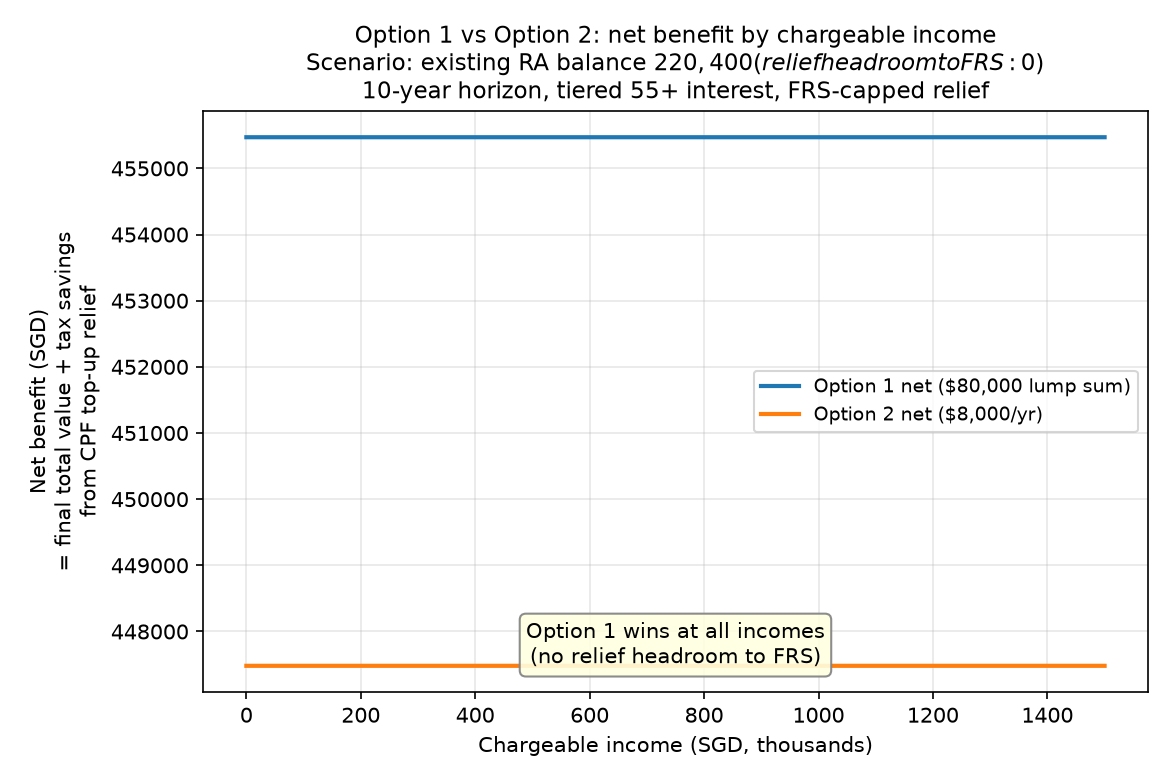
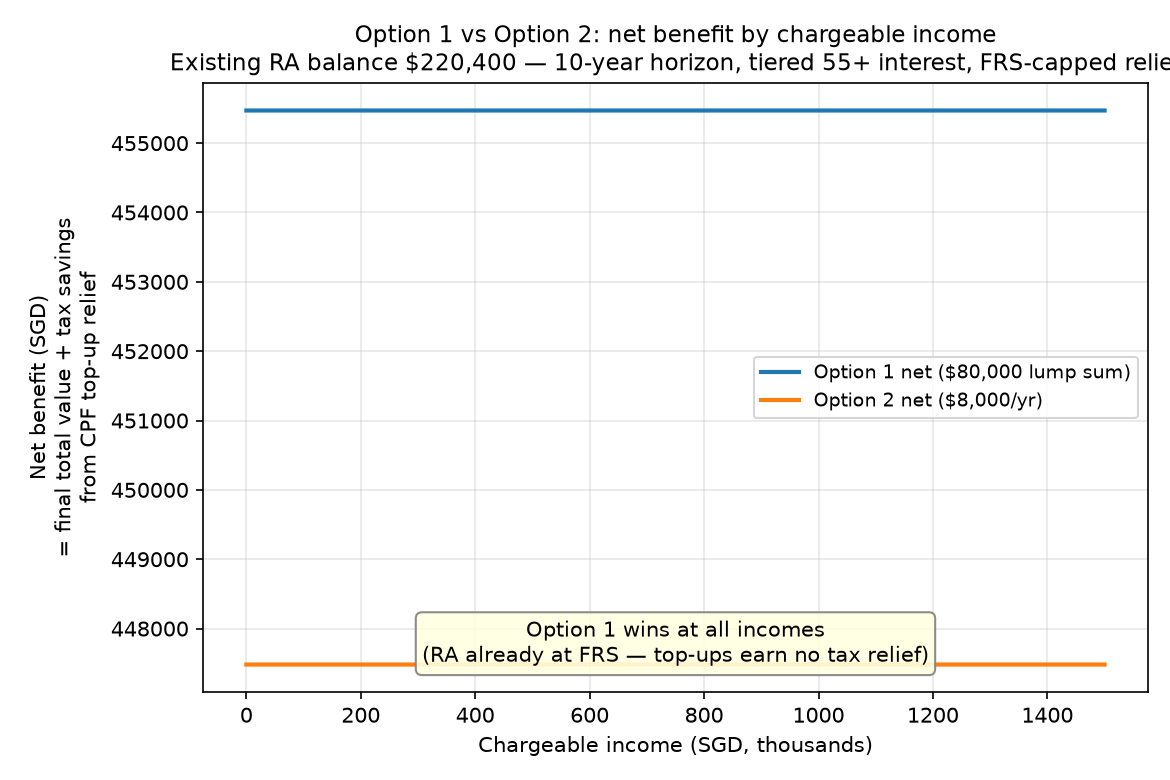
Number README sections; move usage into script docstrings
- README sections 1-6 (Options, Key Results, Decision Rule,
  Assumptions, Files, Sources); Usage section removed
- cpf_ra_comparison.py / make_crossover.py docstrings now carry
  usage examples, outputs, and --help pointer

diff --git a/make_crossover.py b/make_crossover.py
@@ -12,8 +12,12 @@ a function of FRS headroom (how much further top-up still attracts tax
 relief), i.e. the two-dimensional decision rule.
 
 Requires matplotlib.  Usage:
-    python3 make_crossover.py [--ra-balance 220400] [other options as
-    for cpf_ra_comparison.py] [--out-dir DIR]
+    python3 make_crossover.py                        # default scenario
+    python3 make_crossover.py --ra-balance 140400     # your own scenario
+
+Writes net_benefit.png (Figure 1) and crossover_by_headroom.png
+(Figure 2) into --out-dir (default: this script's directory).  Takes
+the same scenario flags as cpf_ra_comparison.py; see --help.
 """
 
 import argparse
@@ -35,7 +39,7 @@ def net_curves(incomes, opt1_final, opt2_total, relief1, sched2):
     return n1, n2
 
 
-def plot_net_benefit(out, args, headroom, incomes, n1, n2, cross):
+def plot_net_benefit(out, args, incomes, n1, n2, cross):
     fig, ax = plt.subplots(figsize=(7.8, 5.2))
     ax.plot([i / 1000 for i in incomes], n1, color="tab:blue", lw=2,
             label=f"Option 1 net (${args.lump:,.0f} lump sum)")
@@ -46,8 +50,7 @@ def plot_net_benefit(out, args, headroom, incomes, n1, n2, cross):
                   "from CPF top-up relief")
     ax.set_title(
         f"Option 1 vs Option 2: net benefit by chargeable income\n"
-        f"Scenario: existing RA balance ${args.ra_balance:,.0f} "
-        f"(relief headroom to FRS: ${headroom:,.0f})\n"
+        f"Existing RA balance ${args.ra_balance:,.0f} — "
         f"{args.years}-year horizon, tiered 55+ interest, FRS-capped relief",
         fontsize=11)
     ax.legend(fontsize=9)
@@ -70,7 +73,7 @@ def plot_net_benefit(out, args, headroom, incomes, n1, n2, cross):
                         alpha=0.08, color="tab:orange", label="Option 2 better")
     else:
         ax.text(0.5, 0.05, "Option 1 wins at all incomes\n"
-                "(no relief headroom to FRS)",
+                "(RA already at FRS — top-ups earn no tax relief)",
                 transform=ax.transAxes, ha="center",
                 bbox=dict(boxstyle="round", fc="lightyellow",
                           ec="gray", alpha=0.9), fontsize=10)
@@ -153,7 +156,7 @@ def main():
                                          args.start_age)
 
     plot_net_benefit(os.path.join(args.out_dir, NET_BENEFIT_PNG), args,
-                     headroom, incomes, n1, n2, cross)
+                     incomes, n1, n2, cross)
     plot_crossover_by_headroom(os.path.join(args.out_dir, CROSSOVER_PNG),
                                args, sensitivity)
 

diff --git a/cpf_ra_comparison.py b/cpf_ra_comparison.py
@@ -18,6 +18,15 @@ Rules implemented (verified against IRAS / CPF Board, see research_findings.md):
      (FRS).  Top-ups above FRS (up to the Enhanced Retirement Sum, ERS)
      earn interest but generate NO tax relief.  Unused relief cannot be
      carried forward.
+
+Usage:
+    python3 cpf_ra_comparison.py                      # default scenario
+                                                      # (existing RA at FRS 2026)
+    python3 cpf_ra_comparison.py --ra-balance 140400  # your own RA balance
+
+Writes cpf_ra_comparison_report.md next to the script (override with
+--out-dir) and prints a summary plus self-verification checks to stdout.
+See --help for all options.
 """
 
 import argparse

diff --git a/README.md b/README.md
@@ -5,7 +5,7 @@ Comparing two strategies to deploy $80,000 into a CPF Retirement Account (RA) at
 1. **FRS-capped tax relief** — CPF Cash Top-up Relief (max $8,000/YA) is only granted for the portion of a top-up that fills the RA up to the Full Retirement Sum (FRS). Top-ups above FRS (up to ERS) earn interest but no relief.
 2. **Tiered 55+ interest** — RA interest is 6% on the first $30,000, 5% on the next $30,000, 4% on the rest of the combined SA/RA balance (4% base + 2%/1% additional interest). If your existing RA balance already exceeds $60,000 (true for any standard 55+ member; minimum BRS is $110,200), all top-up dollars earn a flat 4%.
 
-## Options Compared
+## 1. Options Compared
 
 | | Option 1: Lump Sum | Option 2: Annual Top-ups |
 |---|---|---|
@@ -14,7 +14,7 @@ Comparing two strategies to deploy $80,000 into a CPF Retirement Account (RA) at
 | **Outside interest** | — | 2.5% p.a. on unused funds |
 | **Tax relief** | $8,000 in Year 1 only, **if below FRS** | $8,000/year while below FRS |
 
-## Key Results (default scenario: existing RA at FRS, $220,400)
+## 2. Key Results (default scenario: existing RA at FRS, $220,400)
 
 Top-up dollars earn a flat 4% in both options, and **no tax relief attaches to either option** (RA already at FRS).
 
@@ -27,7 +27,7 @@ Top-up dollars earn a flat 4% in both options, and **no tax relief attaches to e
 
 ![Figure 1 — Option 1 vs Option 2: net benefit by chargeable income, default scenario (existing RA at FRS)](net_benefit.png)
 
-## Decision Rule: Two Dimensions
+## 3. Decision Rule: Two Dimensions
 
 The winner depends on two things: the existing RA balance relative to FRS, and the marginal tax bracket (Figure 2 maps this rule):
 
@@ -44,22 +44,7 @@ Members with RA below ~$60,000 also get the preferential 6%/5% tiers on the top-
 
 ![Figure 2 — break-even chargeable income by FRS headroom; the shaded region is where Option 1 wins at all incomes](crossover_by_headroom.png)
 
-## Usage
-
-```bash
-# default scenario (RA at FRS 2026)
-python3 cpf_ra_comparison.py
-
-# your own RA balance
-python3 cpf_ra_comparison.py --ra-balance 140400
-
-# regenerate the chart
-python3 make_crossover.py --ra-balance 140400   # needs matplotlib
-```
-
-Other flags: `--frs`, `--ers`, `--lump`, `--annual`, `--years`, `--start-age`, `--outside-rate`, `--out-dir`.
-
-## Assumptions
+## 4. Assumptions
 
 - FRS $220,400 / ERS $440,800 (members turning 55 in 2026)
 - CPF Cash Top-up Relief: $8,000/YA cap for self top-up; **cannot be carried forward**; FRS-capped
@@ -69,7 +54,9 @@ Other flags: `--frs`, `--ers`, `--lump`, `--annual`, `--years`, `--start-age`, `
 - Singapore progressive tax brackets (YA 2024 onwards)
 - $80,000 total personal tax-relief cap ignored; MRSS grant interaction noted in the report
 
-## Files
+## 5. Files
+
+Usage examples for both scripts live in their docstrings (or run either with `--help`).
 
 - [`cpf_ra_comparison.py`](cpf_ra_comparison.py) — analysis script (stdlib only, self-verifying)
 - [`make_crossover.py`](make_crossover.py) — chart generator (matplotlib)
@@ -78,7 +65,7 @@ Other flags: `--frs`, `--ers`, `--lump`, `--annual`, `--years`, `--start-age`, `
 - [`crossover_by_headroom.png`](crossover_by_headroom.png) — Figure 2: break-even chargeable income by FRS headroom
 - [`research_findings.md`](research_findings.md) — IRAS/CPF source research
 
-## Sources
+## 6. Sources
 
 - [IRAS Individual Income Tax Rates](https://www.iras.gov.sg/taxes/individual-income-tax/basics-of-individual-income-tax/tax-residency-and-tax-rates/individual-income-tax-rates)
 - [IRAS CPF Cash Top-up Relief (incl. FRS limit on relief)](https://www.iras.gov.sg/taxes/individual-income-tax/basics-of-individual-income-tax/tax-reliefs-rebates-and-deductions/tax-reliefs/central-provident-fund-(cpf)-cash-top-up-relief)
